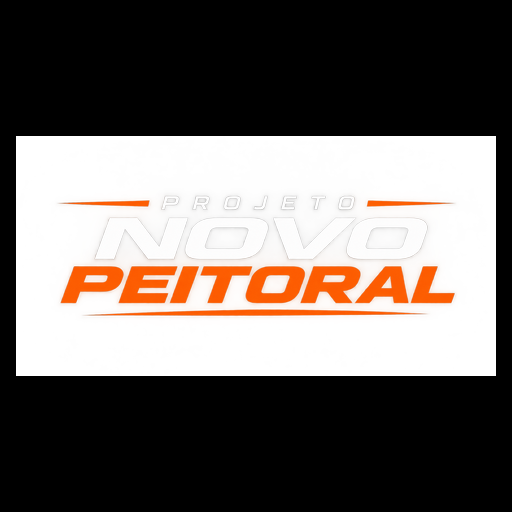
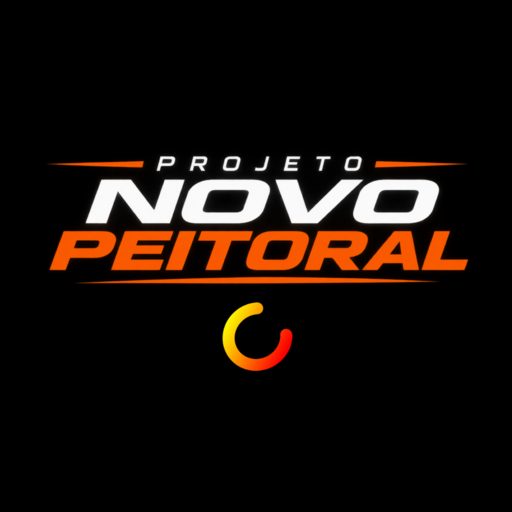
Novo ícone

diff --git a/App.tsx b/App.tsx
@@ -64,11 +64,11 @@ const ScrollToTop = () => {
 
 const BrandLogo = () => (
   <div className="flex flex-col items-center justify-center mb-6">
-    <div className="w-full max-w-[280px] sm:max-w-[320px] px-2 flex items-center justify-center">
+    <div className="w-full max-w-[240px] sm:max-w-[280px] px-2 flex items-center justify-center">
       <img 
-        src="/assets/aistudio/0530F679-55A0-443F-A876-FB7B2F0E10F8_c696539e.png" 
+        src="/assets/aistudio/Untitled_design_d95a02a8.png" 
         alt="Projeto Novo Peitoral" 
-        className="w-full h-auto object-contain drop-shadow-[0_4px_25px_rgba(255,81,7,0.35)] select-none pointer-events-none"
+        className="w-full h-auto object-contain rounded-3xl drop-shadow-[0_8px_32px_rgba(255,81,7,0.4)] select-none pointer-events-none transition-transform hover:scale-105 duration-300"
         loading="eager"
       />
     </div>
